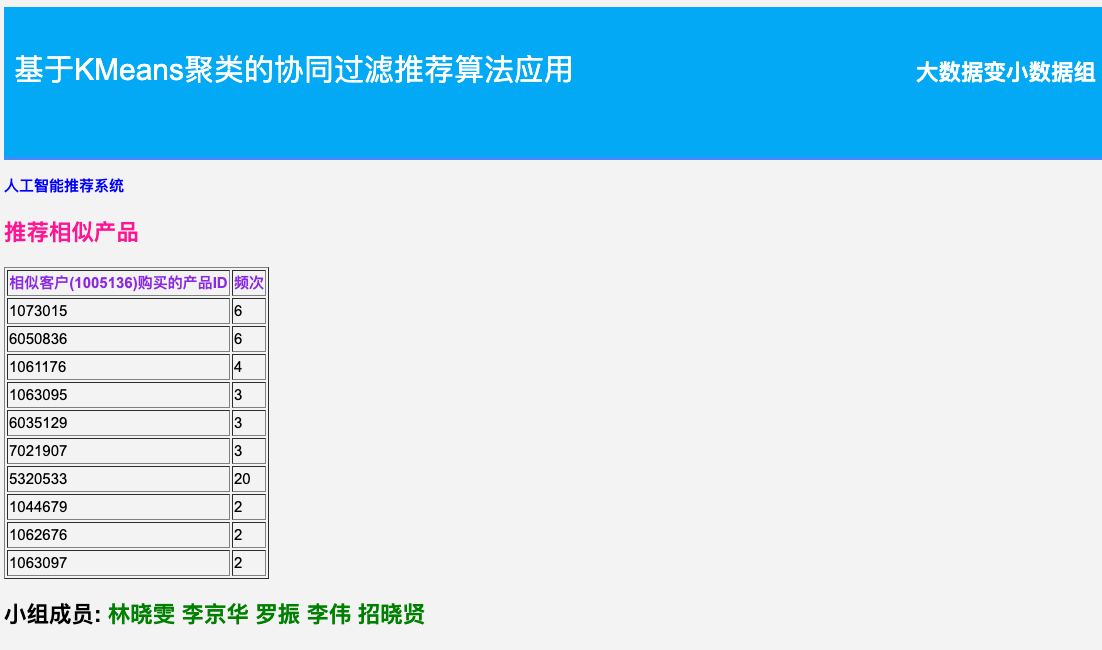
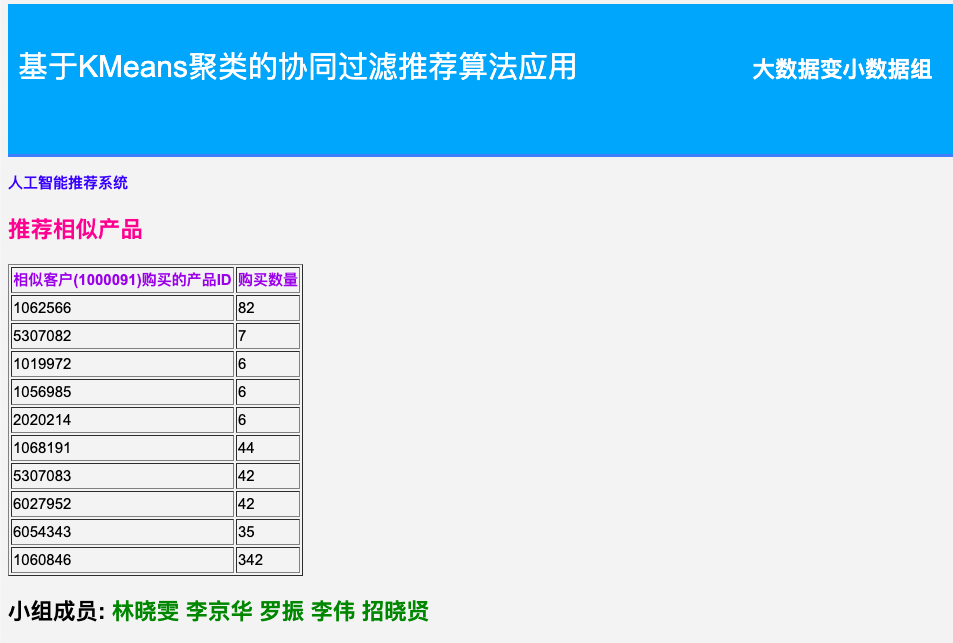
updated

diff --git a/templates/result.html b/templates/result.html
@@ -23,7 +23,7 @@
 	<table border="1">
   <tr>
     <th><font color="#8a2be2">相似客户({{ prediction["top_similarity"] }})购买的产品ID</font></th>
-    <th><font color="#8a2be2">频次</font></th>
+    <th><font color="#8a2be2">购买数量</font></th>
   </tr>
  	{% for pd,od in prediction["items"] %}
 	<tr>
